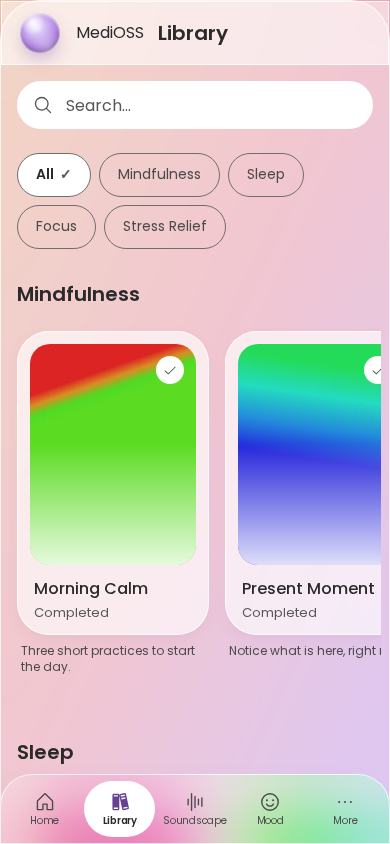
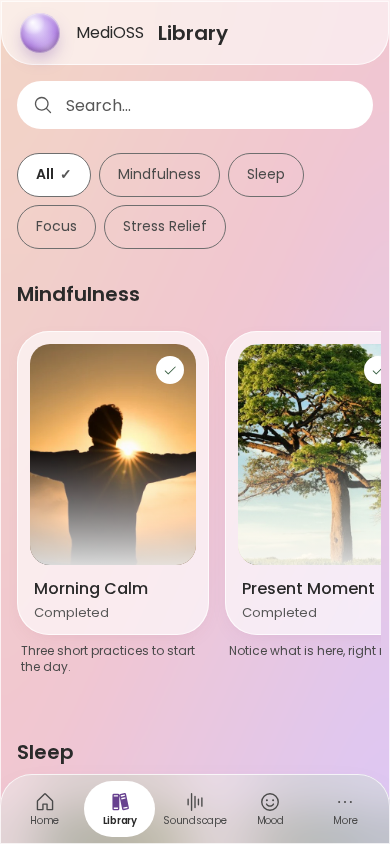
feat(web-ui): Unsplash demo covers, unified program card, bottom-rounded mobile header

diff --git a/src/apps/web-ui/demo/demo-content.ts b/src/apps/web-ui/demo/demo-content.ts
@@ -5,6 +5,33 @@ import fs from "node:fs";
 import path from "node:path";
 import { qaDir } from "../e2e/support/server-env";
 
+// Demo covers: abstract, meditation-suitable Unsplash photos (one per
+// program, in DEMO_PROGRAMS order). Stable photo ids with size params keep
+// the CDN URL reproducible; images are cached under .agents/qa/demo/. Used
+// under the Unsplash License (free use, attribution appreciated but not
+// required); each photo's credit lives on its unsplash.com page.
+const COVER_PHOTO_IDS = [
+  "photo-1499209974431-9dddcece7f88", // layered pink/blue abstract
+  "photo-1502082553048-f009c37129b9", // green fronds in sunlight
+  "photo-1500462918059-b1a0cb512f1d", // deep blue/purple waves
+  "photo-1518495973542-4542c06a5843", // sunlight through leaves
+  "photo-1472214103451-9374bd1c798e", // mist between forest ridges
+  "photo-1469474968028-56623f02e42e", // mountain layers at sunrise
+  "photo-1470252649378-9c29740c9fa8", // sunset over water
+  "photo-1490718720478-364a07a997cd", // misty valley
+  "photo-1439066615861-d1af74d74000", // still water and peaks
+  "photo-1509316785289-025f5b846b35", // pink desert dunes
+  "photo-1470071459604-3b5ec3a7fe05", // foggy pine hills
+  "photo-1505144808419-1957a94ca61e", // gradient sky over water
+  "photo-1508739773434-c26b3d09e071", // sunset cloud study
+  "photo-1519681393784-d120267933ba", // night over snowy mountains
+  "photo-1518709268805-4e9042af9f23", // dusk sky silhouette
+  "photo-1500530855697-b586d89ba3ee", // river winding through forest
+] as const;
+
+const COVER_URL = (photoId: string) =>
+  `https://images.unsplash.com/${photoId}?w=800&h=450&fit=crop&q=80&fm=jpg`;
+
 export type DemoProgram = {
   title: string;
   description: string;
@@ -141,46 +168,25 @@ function ffmpeg(args: string[]): void {
   execFileSync("ffmpeg", ["-hide_banner", "-loglevel", "error", "-y", ...args]);
 }
 
-const COVER_COLOR_STOPS = 4;
-const GOLDEN_ANGLE_DEGREES = 137.5;
-
-function hslToHex(hue: number, saturation: number, lightness: number): string {
-  const chroma = saturation * Math.min(lightness, 1 - lightness);
-  const channel = (offset: number): string => {
-    const k = (offset + hue / 30) % 12;
-    const value = lightness - chroma * Math.max(-1, Math.min(k - 3, 9 - k, 1));
-    return Math.round(value * 255)
-      .toString(16)
-      .padStart(2, "0");
-  };
-  return `0x${channel(0)}${channel(8)}${channel(4)}`;
-}
-
-const MUDDY_HUE_FROM = 38;
-const MUDDY_HUE_TO = 98;
-const COVER_SATURATION = 0.72;
-const COVER_LIGHTNESS = 0.5;
-const COVER_HUE_STEP_DEGREES = 34;
-
-/** Olive and mustard mixes read as mud: move those hues to clean orange or lime. */
-function avoidMuddyHue(hue: number): number {
-  if (hue < MUDDY_HUE_FROM || hue > MUDDY_HUE_TO) return hue;
-  const middle = (MUDDY_HUE_FROM + MUDDY_HUE_TO) / 2;
-  return hue < middle ? MUDDY_HUE_FROM - 8 : MUDDY_HUE_TO + 8;
-}
-
-/** A saturated multi-stop gradient whose hues are unique per program index. */
-export function gradientSource(index: number): string {
-  const baseHue = (index * GOLDEN_ANGLE_DEGREES) % 360;
-  const colors = Array.from({ length: COVER_COLOR_STOPS }, (_, stop) =>
-    hslToHex(
-      avoidMuddyHue((baseHue + stop * COVER_HUE_STEP_DEGREES) % 360),
-      COVER_SATURATION,
-      COVER_LIGHTNESS,
-    ),
-  );
-  const options = colors.map((color, stop) => `c${stop}=${color}`).join(":");
-  return `gradients=s=800x450:${options}:nb_colors=${COVER_COLOR_STOPS}:seed=${index + 1}:speed=0:type=linear`;
+/** Downloads one Unsplash cover into the demo cache; existing files are reused. */
+function cachedCover(index: number): string {
+  if (index >= COVER_PHOTO_IDS.length) {
+    throw new Error(
+      `no cover photo for demo program ${index}: add it to COVER_PHOTO_IDS`,
+    );
+  }
+  const file = path.join(demoDir, `cover-${index}.jpg`);
+  if (!fs.existsSync(file)) {
+    execFileSync("curl", [
+      "-fsSL",
+      "--retry",
+      "3",
+      "-o",
+      file,
+      COVER_URL(COVER_PHOTO_IDS[index]),
+    ]);
+  }
+  return file;
 }
 
 export type DemoFiles = {
@@ -216,20 +222,6 @@ export function ensureDemoFiles(): DemoFiles {
       loop,
     ]);
   }
-  const covers = DEMO_PROGRAMS.map((_, index) => {
-    const file = path.join(demoDir, `cover-${index}.png`);
-    if (!fs.existsSync(file)) {
-      ffmpeg([
-        "-f",
-        "lavfi",
-        "-i",
-        gradientSource(index),
-        "-frames:v",
-        "1",
-        file,
-      ]);
-    }
-    return file;
-  });
+  const covers = DEMO_PROGRAMS.map((_, index) => cachedCover(index));
   return { tone, loop, covers };
 }

diff --git a/src/apps/web-ui/src/lib/components/content/content-card.svelte b/src/apps/web-ui/src/lib/components/content/content-card.svelte
@@ -11,7 +11,10 @@
   parts, joined by an aria-hidden bullet), `coverUrl`, `artworkSeed`,
   `artworkCategory`, `completed`, `headingLevel` (2 | 3 | 4, default 3),
   `actions` (Snippet), `compact` (smaller artwork, text and
-  spacing for horizontal rows; default false), `class`.
+  spacing for horizontal rows; default false), `aspect` ("4/3" | "3/4" |
+  "3/2" thumbnail ratio; default "4/3", or "3/2" when `compact`), `class`.
+  Without `href` the card is a button: `onselect` runs on click, `ariaLabel`
+  names it and `current` marks it as the selected card.
 -->
 <script lang="ts">
   import type { Snippet } from "svelte";
@@ -20,8 +23,20 @@
   import { cn } from "$lib/utils.js";
   import GeneratedArtwork from "./generated-artwork.svelte";
 
+  type Aspect = "4/3" | "3/4" | "3/2";
+
+  const ASPECT_CLASS: Record<Aspect, string> = {
+    "4/3": "aspect-4/3",
+    "3/4": "aspect-3/4",
+    "3/2": "aspect-3/2",
+  };
+
   type Props = {
-    href: string;
+    href?: string;
+    onselect?: () => void;
+    ariaLabel?: string;
+    current?: boolean;
+    aspect?: Aspect;
     title: string;
     meta?: string[];
     coverUrl?: string | null;
@@ -36,6 +51,10 @@
 
   let {
     href,
+    onselect,
+    ariaLabel,
+    current = false,
+    aspect,
     title,
     meta = [],
     coverUrl = null,
@@ -51,22 +70,34 @@
   // A broken cover falls back to artwork; a new URL gets a fresh try.
   let failedUrl = $state<string | null>(null);
   const showCover = $derived(Boolean(coverUrl) && coverUrl !== failedUrl);
+  const thumbnailAspect = $derived(aspect ?? (compact ? "3/2" : "4/3"));
+  const triggerProps = $derived(
+    href === undefined
+      ? {
+          type: "button",
+          "aria-label": ariaLabel,
+          "aria-current": current ? ("true" as const) : undefined,
+          onclick: onselect,
+        }
+      : { href },
+  );
 </script>
 
 <div
   class={cn("flex min-w-0 flex-col", compact ? "gap-1" : "gap-2", className)}
 >
-  <a
-    {href}
+  <svelte:element
+    this={href === undefined ? "button" : "a"}
+    {...triggerProps}
     class={cn(
-      "group/card focus-ring glass-panel elevation-1 flex min-w-0 flex-col rounded-panel border border-rim p-3 motion-safe:transition-colors motion-safe:duration-(--duration-fast) hover:text-accent-strong md:rounded-thumb md:border-0 md:bg-transparent md:p-0 md:shadow-none md:backdrop-blur-none",
+      "group/card focus-ring glass-panel elevation-1 flex min-w-0 flex-col text-start rounded-panel border border-rim p-3 motion-safe:transition-colors motion-safe:duration-(--duration-fast) hover:text-accent-strong md:rounded-thumb md:border-0 md:bg-transparent md:p-0 md:shadow-none md:backdrop-blur-none",
       compact ? "min-h-11 gap-2" : "gap-3",
     )}
   >
     <span
       class={cn(
         "relative block overflow-hidden rounded-thumb md:elevation-1",
-        compact ? "aspect-3/2" : "aspect-4/3",
+        ASPECT_CLASS[thumbnailAspect],
       )}
     >
       {#if showCover}
@@ -122,7 +153,7 @@
         </span>
       {/if}
     </div>
-  </a>
+  </svelte:element>
   {#if actions}
     <div class="flex flex-wrap items-center gap-2 px-1">
       {@render actions()}

diff --git a/src/apps/web-ui/src/lib/screens/admin/meditations-programs-panel.svelte b/src/apps/web-ui/src/lib/screens/admin/meditations-programs-panel.svelte
@@ -1,6 +1,7 @@
 <!-- @component Programs panel: category-grouped program cards with an overflow menu. -->
 <script lang="ts">
   import { programCoverUrl, type Program } from "$lib/api/meditation";
+  import ContentCard from "$lib/components/content/content-card.svelte";
   import AppIcon from "$lib/components/icons/app-icon.svelte";
   import { Button } from "$lib/components/ui/button/index.js";
   import OverflowItem from "$lib/components/ui/menu/overflow-item.svelte";
@@ -72,41 +73,20 @@
           <ul class="flex flex-wrap gap-4">
             {#each group.programs as program (program.id)}
               <li class="relative flex w-44 flex-col sm:w-48">
-                <button
-                  type="button"
-                  aria-label={t(m.selectProgram, {
-                    title: program.title,
-                  })}
-                  aria-current={program.id === selectedId ? "true" : undefined}
-                  class="focus-ring flex min-w-0 flex-col rounded-tile text-start"
-                  onclick={() => onSelect(program)}
-                >
-                  <span
-                    class="relative block aspect-3/4 w-full overflow-hidden rounded-tile bg-panel-tint"
-                  >
-                    {#if program.has_cover}
-                      <img
-                        src={programCoverUrl(
-                          program.id,
-                          coverVersion(program.id),
-                        )}
-                        alt=""
-                        loading="lazy"
-                        class="absolute inset-0 size-full object-cover"
-                      />
-                    {/if}
-                  </span>
-                  <span class="grid gap-1 p-1 pt-2">
-                    <span
-                      class="line-clamp-2 text-sm font-medium break-words text-ink-strong"
-                    >
-                      {program.title}
-                    </span>
-                    <span class="line-clamp-2 text-sm text-ink-body">
-                      {program.description || t(m.noProgramDescription)}
-                    </span>
-                  </span>
-                </button>
+                <ContentCard
+                  aspect="3/4"
+                  headingLevel={4}
+                  ariaLabel={t(m.selectProgram, { title: program.title })}
+                  current={program.id === selectedId}
+                  onselect={() => onSelect(program)}
+                  title={program.title}
+                  meta={[program.description || t(m.noProgramDescription)]}
+                  coverUrl={program.has_cover
+                    ? programCoverUrl(program.id, coverVersion(program.id))
+                    : null}
+                  artworkSeed={program.id}
+                  artworkCategory="meditation"
+                />
                 <div class="absolute end-0 top-0">
                   <OverflowMenu
                     label={t(m.programActions, {

diff --git a/src/apps/web-ui/src/lib/screens/library/library-content.svelte b/src/apps/web-ui/src/lib/screens/library/library-content.svelte
@@ -187,7 +187,8 @@
           <li class="min-w-0">
             <ContentCard
               compact
-              class="max-w-48 [&>a>span:first-child]:aspect-3/4"
+              aspect="3/4"
+              class="max-w-48"
               href={playerHref(meditation.id)}
               title={meditation.name}
               meta={[
@@ -254,7 +255,8 @@
             {#each group.programs as program (program.id)}
               <li class={itemClass}>
                 <ContentCard
-                  class="max-w-48 [&>a>span:first-child]:aspect-3/4"
+                  aspect="3/4"
+                  class="max-w-48"
                   href={programHref(program.id)}
                   title={program.title}
                   meta={[
@@ -264,7 +266,7 @@
                     ? programCoverUrl(program.id)
                     : null}
                   artworkSeed={program.id}
-                  artworkCategory="library"
+                  artworkCategory="meditation"
                   completed={program.progress >= 1}
                 >
                   {#snippet actions()}

diff --git a/src/apps/web-ui/src/lib/components/shell/app-shell.svelte b/src/apps/web-ui/src/lib/components/shell/app-shell.svelte
@@ -152,7 +152,7 @@
     data-shell-skeleton=""
   >
     <div
-      class="glass-shell flex min-h-dvh flex-col rounded-t-shell md:h-[calc(100dvh-2rem)] md:min-h-0 md:flex-row md:rounded-shell xl:h-[calc(100dvh-4rem)]"
+      class="glass-shell flex min-h-dvh flex-col md:h-[calc(100dvh-2rem)] md:min-h-0 md:flex-row md:rounded-shell xl:h-[calc(100dvh-4rem)]"
     >
       <div class="hidden w-64 shrink-0 flex-col gap-3 px-8 py-8 xl:flex">
         <div class="mb-6 size-10 rounded-full bg-surface-solid/70"></div>
@@ -200,7 +200,7 @@
   <SkipLink />
   <div class="min-h-dvh md:h-dvh md:overflow-hidden md:p-4 xl:p-8">
     <div
-      class="glass-shell elevation-2 flex min-h-dvh flex-col rounded-t-shell md:h-[calc(100dvh-2rem)] md:min-h-0 md:flex-row md:overflow-hidden md:rounded-shell xl:h-[calc(100dvh-4rem)]"
+      class="glass-shell elevation-2 flex min-h-dvh flex-col md:h-[calc(100dvh-2rem)] md:min-h-0 md:flex-row md:overflow-hidden md:rounded-shell xl:h-[calc(100dvh-4rem)]"
     >
       <SidebarNav
         class="hidden xl:flex"

diff --git a/src/apps/web-ui/src/lib/components/shell/shell-header.svelte b/src/apps/web-ui/src/lib/components/shell/shell-header.svelte
@@ -21,7 +21,7 @@
 </script>
 
 <header
-  class="sticky top-0 z-20 flex h-16 items-center gap-3 px-4 max-md:glass-shell max-md:border-x-0 max-md:border-t-0 md:static md:h-auto md:gap-4 md:px-8 md:pt-8"
+  class="sticky top-0 z-20 flex h-16 items-center gap-3 px-4 max-md:glass-shell max-md:rounded-b-panel max-md:border-t-0 md:static md:h-auto md:gap-4 md:px-8 md:pt-8"
 >
   <BrandLockup compact href="/" class="md:hidden" />
   {#if title === null}

diff --git a/src/apps/web-ui/demo/seed-demo.ts b/src/apps/web-ui/demo/seed-demo.ts
@@ -54,8 +54,8 @@ async function main(): Promise<void> {
           title: program.title,
           description: program.description,
           cover: {
-            name: "cover.png",
-            mimeType: "image/png",
+            name: "cover.jpg",
+            mimeType: "image/jpeg",
             buffer: fs.readFileSync(files.covers[coverIndex]),
           },
         },

diff --git a/src/apps/web-ui/src/lib/screens/home/home-content.svelte b/src/apps/web-ui/src/lib/screens/home/home-content.svelte
@@ -153,7 +153,8 @@
                 artworkSeed={entry.program.id}
                 artworkCategory="meditation"
                 completed={entry.program.progress >= 1}
-                class="max-w-48 [&>a>span:first-child]:aspect-3/4"
+                aspect="3/4"
+                class="max-w-48"
               />
             </li>
           {/each}
